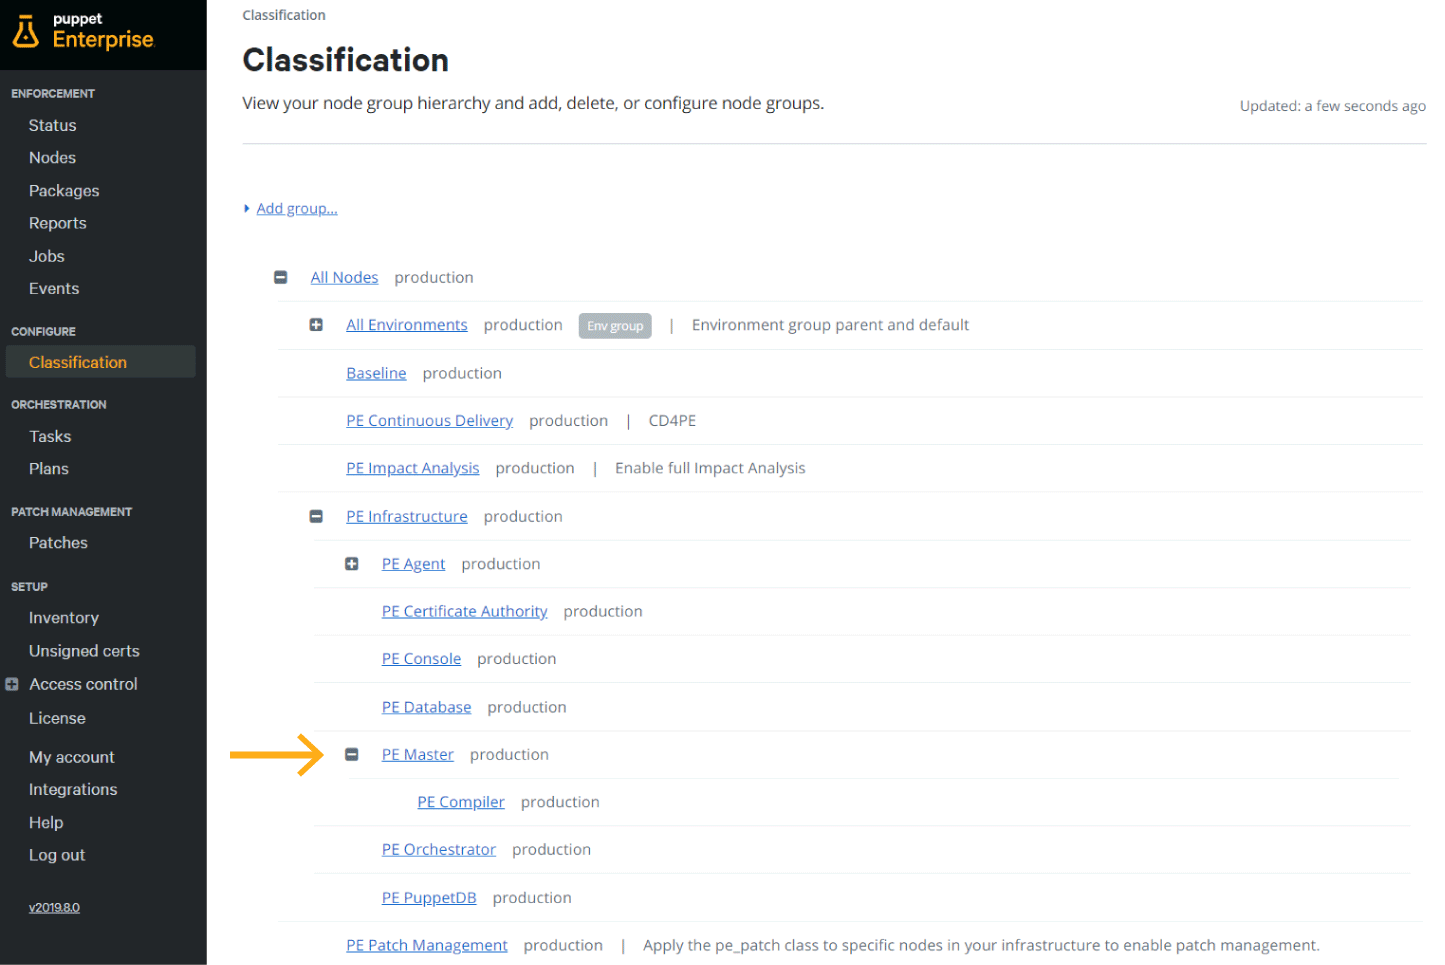
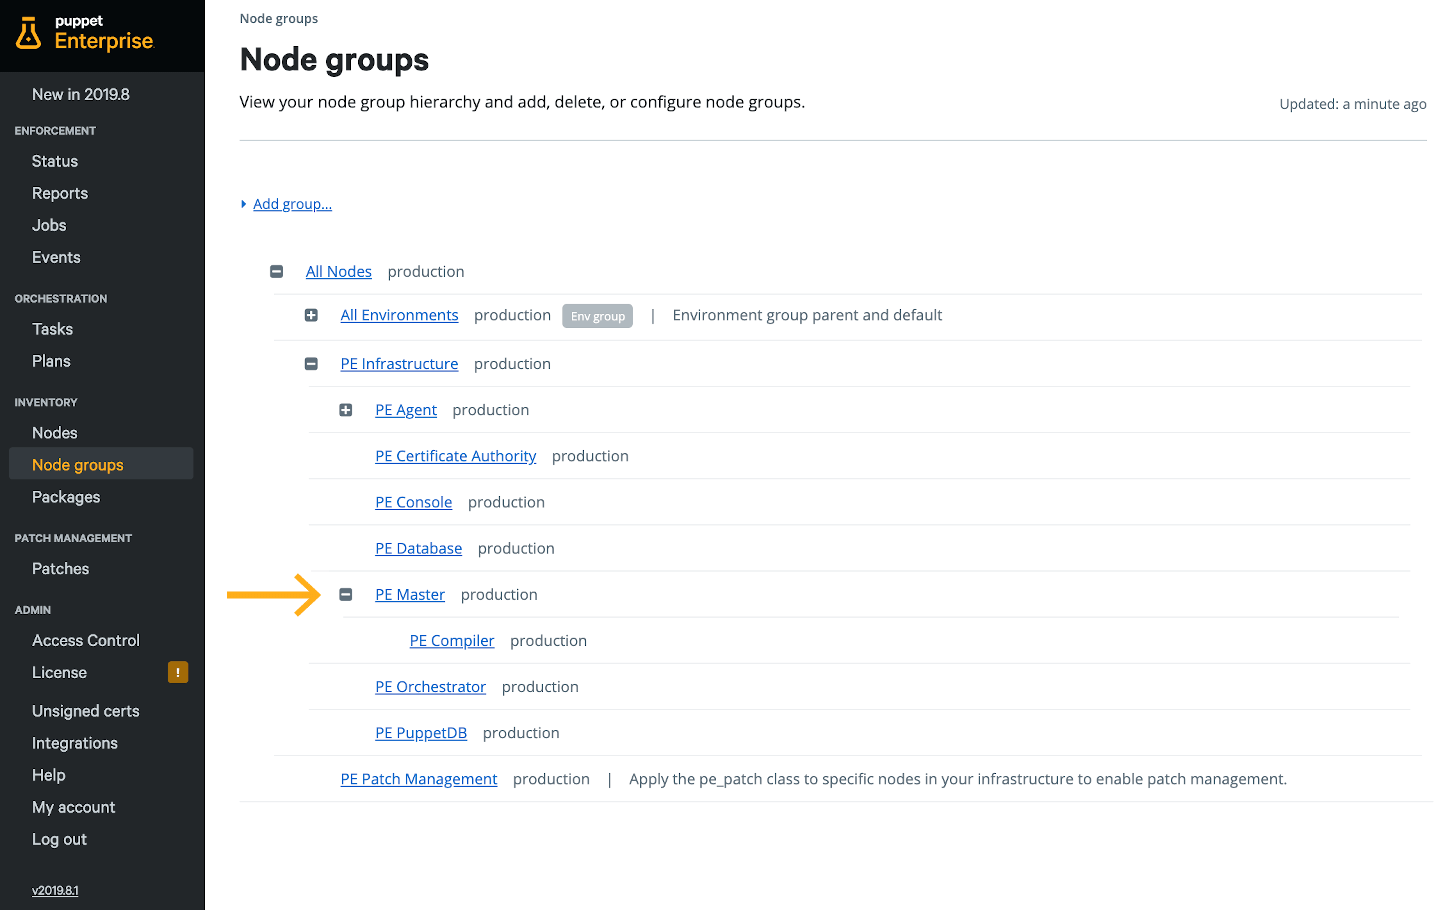
Minor tweaks to docs:
* facts.pp - removal of referal to historic use of `facter` command in setup section
* control_repository.pp - addition of `-p` to `mkdir` command issed on existing direction to prevent distracting error
* control_repository.pp - update to reflect UI change in PE
* troubleshooting.md - correction of 404'ing URL

diff --git a/quests/facts.md b/quests/facts.md
@@ -30,12 +30,10 @@ To start this quest enter the following command:
 
 ## Facter
 
-You already encountered the `facter` tool when we asked you to run `facter
-ipaddress` in the setup section of this Quest Guide. We briefly discussed
-the tool's role in a Puppet run: the Puppet agent runs `facter` to get a list
-of facts about the system to send to the Puppet server as it requests a
-catalog. The Puppet server then uses these facts to help compile that catalog
-before sending it back to the Puppet agent to be applied.
+As we briefly discussed in the setup section, the Puppet agent runs `facter` to
+get a list of facts about the system to send to the Puppet server as it 
+requests a catalog. The Puppet server then uses these facts to help compile
+that catalog before sending it back to the Puppet agent to be applied.
 
 Before we get into integrating facts into your Puppet code, let's use the
 `facter` tool from the command line to see what kinds of facts are available

diff --git a/quests/control_repository.md b/quests/control_repository.md
@@ -417,7 +417,7 @@ use to authenticate itself with Gitea.
 
 Begin by creating a new `ssh` subdirectory in `/etc/puppetlabs/puppetserver`:
 
-    mkdir /etc/puppetlabs/puppetserver/ssh
+    mkdir -p /etc/puppetlabs/puppetserver/ssh
 
 Next, use the `ssh-keygen` command to generate a new keypair.
 
@@ -491,8 +491,8 @@ First, open the PE console interface in your browser by navigating to
 **user:** admin  
 **password:** puppetlabs
 
-Click on the **Classification** tab in the PE console navigation menu. From
-there, expand the **All nodes** and **PE Infrastructure** groups and select
+Click on the **Node Groups** item in the PE console navigation menu. From
+there, expand the **All Nodes** and **PE Infrastructure** groups and select
 the **PE Master** node group.
 
 ![image](../assets/pe_console_master_2019.8.png)

diff --git a/troubleshooting.md b/troubleshooting.md
@@ -258,7 +258,7 @@ validation and content on your copy of the Learning VM.
 
 If your puppet runs still fail after trying the steps above, check the Puppet
 Enterprise [Known
-Issues](https://puppet.com/docs/pe/latest/pe_known_issues.html)
+Issues](https://puppet.com/docs/pe/latest/known_issues_pe.html)
 page or feel free to contact us at learningvm@puppet.com. Please include
 details of your host OS, virtualization software and version, and any details
 of the site network configuration where you're running the VM (for example,
